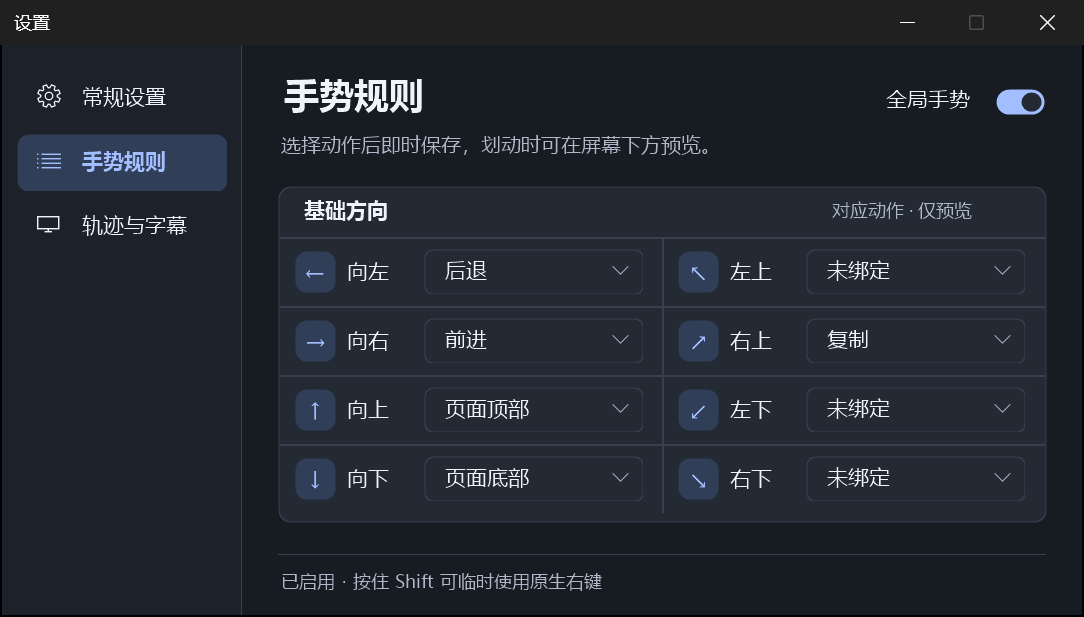
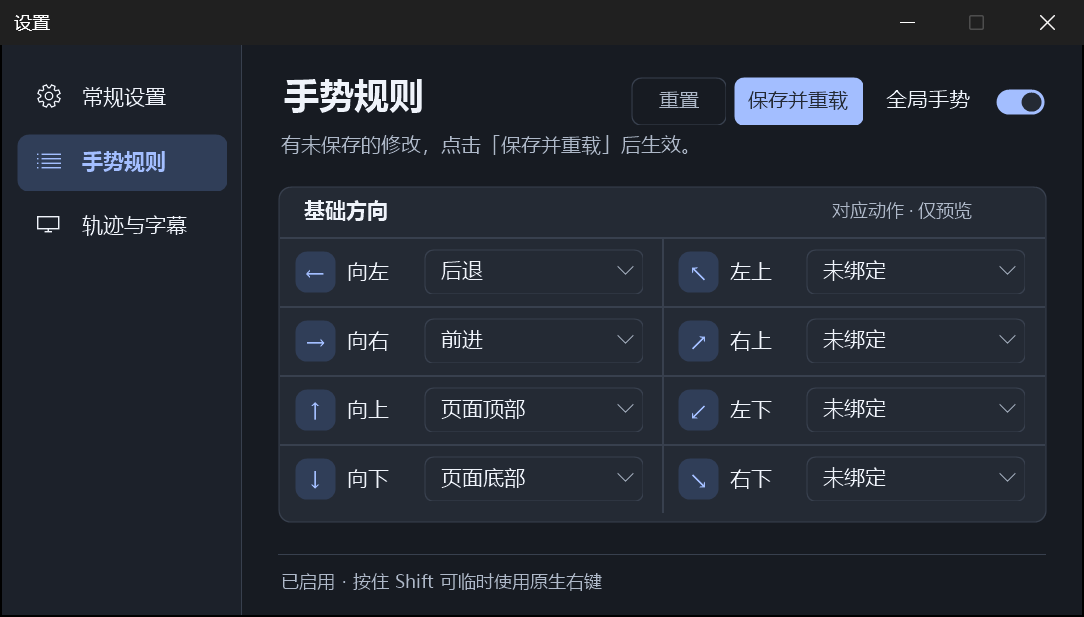
feat(rules): 手动保存手势绑定并支持悬停清除
选择、清除与恢复默认值先保留为草稿，保存并重载后更新下一笔手势使用的配置。补充真实下拉框清除、失败重试和重启回读测试，更新设置文档与截图。

diff --git a/src/ui.rs b/src/ui.rs
@@ -1,6 +1,12 @@
 use super::*;
 use windows_sys::Win32::Graphics::GdiPlus::*;
-use windows_sys::Win32::UI::Controls::{DRAWITEMSTRUCT, ODS_DISABLED, ODS_FOCUS, ODS_SELECTED};
+use windows_sys::Win32::UI::Controls::{
+    DRAWITEMSTRUCT, ODS_DISABLED, ODS_FOCUS, ODS_SELECTED, WM_MOUSELEAVE,
+};
+use windows_sys::Win32::UI::Input::KeyboardAndMouse::{
+    GetCapture, GetFocus, IsWindowEnabled, ReleaseCapture, SetCapture, SetFocus, TME_LEAVE,
+    TRACKMOUSEEVENT, TrackMouseEvent,
+};
 
 // Layout is in device-independent pixels. Convert once at each drawing/Win32 boundary.
 pub const WIDTH: i32 = 720;
@@ -252,6 +258,8 @@ fn control_bounds(id: i32) -> [i32; 4] {
         id if id == Page::Feedback as i32 => [10, 102, RAIL - 20, 38],
         TOGGLE if PAGE.with(Cell::get) == Page::General => [RIGHT - 125, CARD_TOP + 17, 113, 34],
         TOGGLE => [RIGHT - 113, 20, 113, 34],
+        RESET_RULES => [RIGHT - 277, 21, 63, 32],
+        SAVE_RULES => [RIGHT - 208, 21, 86, 32],
         AUTOSTART => [RIGHT - 125, CARD_TOP + SETTING_HEIGHT + 17, 113, 34],
         THEME => [RIGHT - 145, CARD_TOP + 2 * SETTING_HEIGHT + 17, 132, 34],
         IDLE => [RIGHT - 145, CARD_TOP + 17, 132, 34],
@@ -271,11 +279,20 @@ fn control_bounds(id: i32) -> [i32; 4] {
     }
 }
 fn controls() -> impl Iterator<Item = i32> {
-    [THEME, TOGGLE, AUTOSTART, IDLE, LINGER, RESULT]
-        .into_iter()
-        .chain(Page::ALL.map(|p| p as i32))
-        .chain(RULE_ROW..RULE_ROW + COUNT)
-        .chain(PICKER..PICKER + COUNT)
+    [
+        THEME,
+        TOGGLE,
+        AUTOSTART,
+        IDLE,
+        LINGER,
+        RESULT,
+        RESET_RULES,
+        SAVE_RULES,
+    ]
+    .into_iter()
+    .chain(Page::ALL.map(|p| p as i32))
+    .chain(RULE_ROW..RULE_ROW + COUNT)
+    .chain(PICKER..PICKER + COUNT)
 }
 pub unsafe fn layout() {
     unsafe {
@@ -285,6 +302,7 @@ pub unsafe fn layout() {
                 THEME | AUTOSTART => page == Page::General,
                 IDLE | LINGER => page == Page::Feedback,
                 TOGGLE => page != Page::Feedback,
+                RESET_RULES | SAVE_RULES => page == Page::Rules,
                 id if (RULE_ROW..RULE_ROW + COUNT).contains(&id)
                     || (PICKER..PICKER + COUNT).contains(&id) =>
                 {
@@ -330,6 +348,8 @@ pub unsafe fn build() {
             (Page::Rules as i32, Page::Rules.title()),
             (Page::Feedback as i32, Page::Feedback.title()),
             (TOGGLE, "启用全局手势"),
+            (RESET_RULES, "重置"),
+            (SAVE_RULES, "保存并重载"),
             (AUTOSTART, "启用登录自启"),
             (IDLE, "停笔取消时间"),
             (LINGER, "松键后保留时间"),
@@ -388,7 +408,34 @@ unsafe fn caption(w: HWND) -> String {
     let n = unsafe { GetWindowTextW(w, buf.as_mut_ptr(), buf.len() as i32) };
     String::from_utf16_lossy(&buf[..n as usize])
 }
-// Keep native keyboard, accessibility and dropdown handling.
+thread_local! {
+    static HOVER_FIELD: Cell<HWND> = const { Cell::new(null_mut()) };
+    static PRESSED_CLEAR: Cell<HWND> = const { Cell::new(null_mut()) };
+}
+unsafe fn clear_target(w: HWND) -> Option<RECT> {
+    unsafe {
+        if HOVER_FIELD.with(Cell::get) != w
+            || IsWindowEnabled(w) == 0
+            || SendMessageW(w, CB_GETCURSEL, 0, 0) <= Action::Unassigned as isize
+            || SendMessageW(w, CB_GETDROPPEDSTATE, 0, 0) != 0
+        {
+            return None;
+        }
+        let mut r = RECT::default();
+        GetClientRect(w, &mut r);
+        r.left = r.right - px(46);
+        r.right -= px(23);
+        Some(r)
+    }
+}
+unsafe fn hits_clear(w: HWND, lp: LPARAM) -> bool {
+    let pt = POINT {
+        x: lp as i16 as i32,
+        y: (lp >> 16) as i16 as i32,
+    };
+    unsafe { clear_target(w).is_some_and(|r| PtInRect(&r, pt) != 0) }
+}
+// Only the clear target intercepts clicks. The rest of the field stays a native combo.
 unsafe extern "system" fn action_field(
     w: HWND,
     m: u32,
@@ -398,6 +445,52 @@ unsafe extern "system" fn action_field(
     _data: usize,
 ) -> LRESULT {
     unsafe {
+        match m {
+            WM_MOUSEMOVE if HOVER_FIELD.with(Cell::get) != w => {
+                let mut track = TRACKMOUSEEVENT {
+                    cbSize: size_of::<TRACKMOUSEEVENT>() as u32,
+                    dwFlags: TME_LEAVE,
+                    hwndTrack: w,
+                    ..Default::default()
+                };
+                if TrackMouseEvent(&mut track) != 0 {
+                    let previous = HOVER_FIELD.with(|v| v.replace(w));
+                    if !previous.is_null() {
+                        InvalidateRect(previous, null_mut(), 0);
+                    }
+                    InvalidateRect(w, null_mut(), 0);
+                }
+            }
+            WM_MOUSELEAVE if HOVER_FIELD.with(Cell::get) == w => {
+                HOVER_FIELD.with(|v| v.set(null_mut()));
+                InvalidateRect(w, null_mut(), 0);
+            }
+            WM_LBUTTONDOWN if hits_clear(w, lp) => {
+                SetFocus(w);
+                SetCapture(w);
+                PRESSED_CLEAR.with(|v| v.set(w));
+                InvalidateRect(w, null_mut(), 0);
+                return 0;
+            }
+            WM_LBUTTONUP if PRESSED_CLEAR.with(Cell::get) == w => {
+                let clear = hits_clear(w, lp);
+                PRESSED_CLEAR.with(|v| v.set(null_mut()));
+                if GetCapture() == w {
+                    ReleaseCapture();
+                }
+                if clear {
+                    SendMessageW(w, CB_SETCURSEL, Action::Unassigned as usize, 0);
+                    update_rule_buttons();
+                }
+                InvalidateRect(w, null_mut(), 0);
+                return 0;
+            }
+            WM_CAPTURECHANGED | WM_CANCELMODE if PRESSED_CLEAR.with(Cell::get) == w => {
+                PRESSED_CLEAR.with(|v| v.set(null_mut()));
+                InvalidateRect(w, null_mut(), 0);
+            }
+            _ => {}
+        }
         if matches!(m, WM_PAINT | WM_PRINTCLIENT | WM_PRINT) {
             let mut ps = PAINTSTRUCT::default();
             let dc = if m == WM_PAINT {
@@ -408,16 +501,24 @@ unsafe extern "system" fn action_field(
             let mut r = RECT::default();
             GetClientRect(w, &mut r);
             let p = colors();
-            let focus = windows_sys::Win32::UI::Input::KeyboardAndMouse::GetFocus() == w;
+            let focus = GetFocus() == w;
             fill(dc, r, p.surface);
             panel(dc, r, p.surface, if focus { p.accent } else { p.edge }, 5);
             let chevron = RECT {
-                left: r.right - px(30),
+                left: r.right - px(23),
                 ..r
             };
             text(dc, "\u{e70d}", chevron, 11, Face::Icon, p.muted, DT_CENTER);
-            r.left += px(12);
-            r.right -= px(32);
+            r.left += px(9);
+            r.right = if let Some(clear) = clear_target(w) {
+                if PRESSED_CLEAR.with(Cell::get) == w {
+                    rounded(dc, inset(clear, px(3)), p.selected, 4);
+                }
+                text(dc, "\u{e711}", clear, 10, Face::Icon, p.muted, DT_CENTER);
+                clear.left
+            } else {
+                chevron.left
+            };
             text(dc, &caption(w), r, 14, Face::Body, p.text, 0);
             if m == WM_PAINT {
                 EndPaint(w, &ps);
@@ -450,7 +551,10 @@ pub unsafe fn paint(w: HWND) {
             0,
         );
         let description = match page {
-            Page::Rules => "选择动作后即时保存，划动时可在屏幕下方预览。",
+            Page::Rules if IsWindowEnabled(GetDlgItem(w, SAVE_RULES)) != 0 => {
+                "有未保存的修改，点击「保存并重载」后生效。"
+            }
+            Page::Rules => "选择手势动作，保存后可在屏幕下方预览。",
             Page::General => "管理手势启停、登录启动与窗口外观。",
             Page::Feedback => "调整停笔和松键后，轨迹与动作字幕的显示时间。",
         };
@@ -597,6 +701,45 @@ pub unsafe fn item(item: &DRAWITEMSTRUCT) {
         } else if id == RESULT {
             fill(dc, r, p.base);
             text(dc, &caption(item.hwndItem), r, 12, Face::Body, p.muted, 0);
+        } else if matches!(id, RESET_RULES | SAVE_RULES) {
+            let enabled = item.itemState & ODS_DISABLED == 0;
+            let primary = enabled && id == SAVE_RULES;
+            let pressed = item.itemState & ODS_SELECTED != 0;
+            fill(dc, r, p.base);
+            let background = if pressed {
+                p.selected
+            } else if primary {
+                p.accent
+            } else if enabled {
+                p.surface
+            } else {
+                p.base
+            };
+            panel(
+                dc,
+                r,
+                background,
+                if primary { p.accent } else { p.edge },
+                6,
+            );
+            let ink = if pressed {
+                p.accent
+            } else if primary {
+                p.surface
+            } else if enabled {
+                p.text
+            } else {
+                p.muted
+            };
+            text(
+                dc,
+                &caption(item.hwndItem),
+                r,
+                13,
+                Face::Body,
+                ink,
+                DT_CENTER,
+            );
         } else if id == TOGGLE || id == AUTOSTART {
             let settings = PAGE.with(Cell::get) == Page::General;
             fill(dc, r, if settings { p.surface } else { p.base });

diff --git a/src/main.rs b/src/main.rs
@@ -8,7 +8,7 @@ mod overlay;
 mod settings;
 mod startup;
 mod ui;
-use glidequill::{ACTIONS, DIRECTIONS};
+use glidequill::{ACTIONS, Action, DEFAULT_BINDINGS, DIRECTIONS};
 use std::{
     cell::{Cell, RefCell},
     mem::size_of,
@@ -26,6 +26,8 @@ const RESULT: i32 = 122;
 const OPEN: i32 = 123;
 const EXIT: i32 = 124;
 const THEME: i32 = 127;
+const RESET_RULES: i32 = 136;
+const SAVE_RULES: i32 = 137;
 #[derive(Clone, Copy, PartialEq, Eq)]
 #[repr(i32)]
 enum Page {
@@ -174,6 +176,47 @@ fn set_enabled(enabled: bool, persist: bool) {
 fn toggle() {
     set_enabled(LISTENER.with(|v| v.borrow().is_none()), true);
 }
+// The native selections are the draft. The listener reads only committed preferences.
+fn selected_bindings() -> Option<[Action; DIRECTIONS.len()]> {
+    let mut bindings = DEFAULT_BINDINGS;
+    for (index, binding) in bindings.iter_mut().enumerate() {
+        let selected = unsafe {
+            let field = GetDlgItem(app_window(), ui::PICKER + index as i32);
+            SendMessageW(field, CB_GETCURSEL, 0, 0)
+        };
+        *binding = *ACTIONS.get(selected as usize)?;
+    }
+    Some(bindings)
+}
+fn update_rule_buttons() {
+    let draft = selected_bindings().filter(|_| CONFIG_READABLE.with(Cell::get));
+    let saved = settings::preferences().bindings;
+    unsafe {
+        for (id, enabled) in [
+            (SAVE_RULES, draft.is_some_and(|b| b != saved)),
+            (RESET_RULES, draft.is_some_and(|b| b != DEFAULT_BINDINGS)),
+        ] {
+            let button = GetDlgItem(app_window(), id);
+            windows_sys::Win32::UI::Input::KeyboardAndMouse::EnableWindow(button, enabled.into());
+            InvalidateRect(button, null_mut(), 0);
+        }
+        InvalidateRect(app_window(), null_mut(), 0);
+    }
+}
+fn save_bindings() {
+    let Some(bindings) = selected_bindings() else {
+        return;
+    };
+    let prefs = settings::preferences();
+    if bindings == prefs.bindings {
+        return;
+    }
+    match settings::save(settings::Preferences { bindings, ..prefs }) {
+        Ok(()) => label(RESULT, "规则已保存并重载，将用于下一笔手势"),
+        Err(e) => label(RESULT, &format!("保存失败，修改已保留：{e}")),
+    }
+    update_rule_buttons();
+}
 fn apply_theme(w: HWND, dark: bool) {
     DARK.with(|v| v.set(dark));
     unsafe {
@@ -264,6 +307,7 @@ unsafe extern "system" fn proc(w: HWND, m: u32, wp: WPARAM, lp: LPARAM) -> LRESU
                 WINDOW.with(|v| v.set(w));
                 ui::set_dpi(GetDpiForWindow(w));
                 ui::build();
+                update_rule_buttons();
                 ui::layout();
                 if overlay::create().is_err() {
                     return -1;
@@ -334,35 +378,18 @@ unsafe extern "system" fn proc(w: HWND, m: u32, wp: WPARAM, lp: LPARAM) -> LRESU
                 }
                 match id {
                     id if (ui::PICKER..ui::PICKER + DIRECTIONS.len() as i32).contains(&id)
-                        && wp >> 16 == CBN_SELCHANGE as usize =>
+                        && matches!((wp >> 16) as u32, CBN_SELCHANGE | CBN_CLOSEUP) =>
                     {
-                        let field = GetDlgItem(w, id);
-                        let index = (id - ui::PICKER) as usize;
-                        let mut prefs = settings::preferences();
-                        let previous = prefs.bindings[index];
-                        let selected = SendMessageW(field, CB_GETCURSEL, 0, 0);
-                        if CONFIG_READABLE.with(Cell::get)
-                            && let Some(&action) = ACTIONS.get(selected as usize)
-                        {
-                            prefs.bindings[index] = action;
-                            match settings::save(prefs) {
-                                Ok(()) => label(
-                                    RESULT,
-                                    &format!(
-                                        "已保存 · {}划 → {}",
-                                        DIRECTIONS[index].name(),
-                                        action.label()
-                                    ),
-                                ),
-                                Err(e) => {
-                                    SendMessageW(field, CB_SETCURSEL, previous as usize, 0);
-                                    label(RESULT, &format!("绑定保存失败：{e}"));
-                                }
-                            }
-                        } else {
-                            SendMessageW(field, CB_SETCURSEL, previous as usize, 0);
+                        update_rule_buttons();
+                        InvalidateRect(GetDlgItem(w, id), null_mut(), 0);
+                    }
+                    SAVE_RULES if CONFIG_READABLE.with(Cell::get) => save_bindings(),
+                    RESET_RULES if CONFIG_READABLE.with(Cell::get) => {
+                        for (index, action) in DEFAULT_BINDINGS.iter().enumerate() {
+                            let field = GetDlgItem(w, ui::PICKER + index as i32);
+                            SendMessageW(field, CB_SETCURSEL, *action as usize, 0);
                         }
-                        InvalidateRect(field, null_mut(), 0);
+                        update_rule_buttons();
                     }
                     AUTOSTART => {
                         match refresh_startup()

diff --git a/docs/Windows产品需求方案.md b/docs/Windows产品需求方案.md
@@ -1,10 +1,10 @@
 # GlideQuill（拂标）· Windows 产品需求方案
 
-核心优先评审稿 v0.15 ｜ 2026-11-19
+核心优先评审稿 v0.16 ｜ 2026-11-19
 
 ## 当前交付 · 八向基础规则与实际窗口反馈
 
-打开全局手势，在普通前台窗口按住鼠标右键划动，移动过程中绘制平滑轨迹。匹配到已绑定动作的方向时，在指针所在显示器工作区底部居中显示动作字幕，松开后默认保留 0.55 秒。识别使用原始输入采样。八条直线统归“基础方向”。左、右、上、下默认对应后退、前进、页面顶部、页面底部，四个斜向默认未绑定。每个方向的下拉菜单可独立指定或清除动作，选择即时保存，下一笔按新绑定预览。普通右击照常弹出菜单，未匹配的拖动显示“未识别”。这一阶段只验收视觉反馈；页面跳转与滚动在下一阶段接入。
+打开全局手势，在普通前台窗口按住鼠标右键划动，移动过程中绘制平滑轨迹。匹配到已绑定动作的方向时，在指针所在显示器工作区底部居中显示动作字幕，松开后默认保留 0.55 秒。识别使用原始输入采样。八条直线统归“基础方向”。左、右、上、下默认对应后退、前进、页面顶部、页面底部，四个斜向默认未绑定。每个方向可独立选择动作。鼠标移到已绑定的下拉框时，点 × 可清除该项。「重置」将八项恢复为默认值。上述修改暂存于窗口，点击「保存并重载」后统一用于下一笔手势。普通右击照常弹出菜单，未匹配的拖动显示“未识别”。这一阶段只验收视觉反馈；页面跳转与滚动在下一阶段接入。
 
 主窗口通过左侧导航分为常规设置、手势规则和轨迹与字幕。各页支持记住启停、登录时自启到托盘、停笔后取消手势（默认 0.5 秒，可关闭）及松键后保留时间（可立即消失）。首次运行默认关闭手势与自启。独立练习区已移出当前范围。后续先接入四个动作，再评估是否需要按应用编辑、自定义录制与迁移。以下完整产品目标与原型用于后续设计评审。
 
